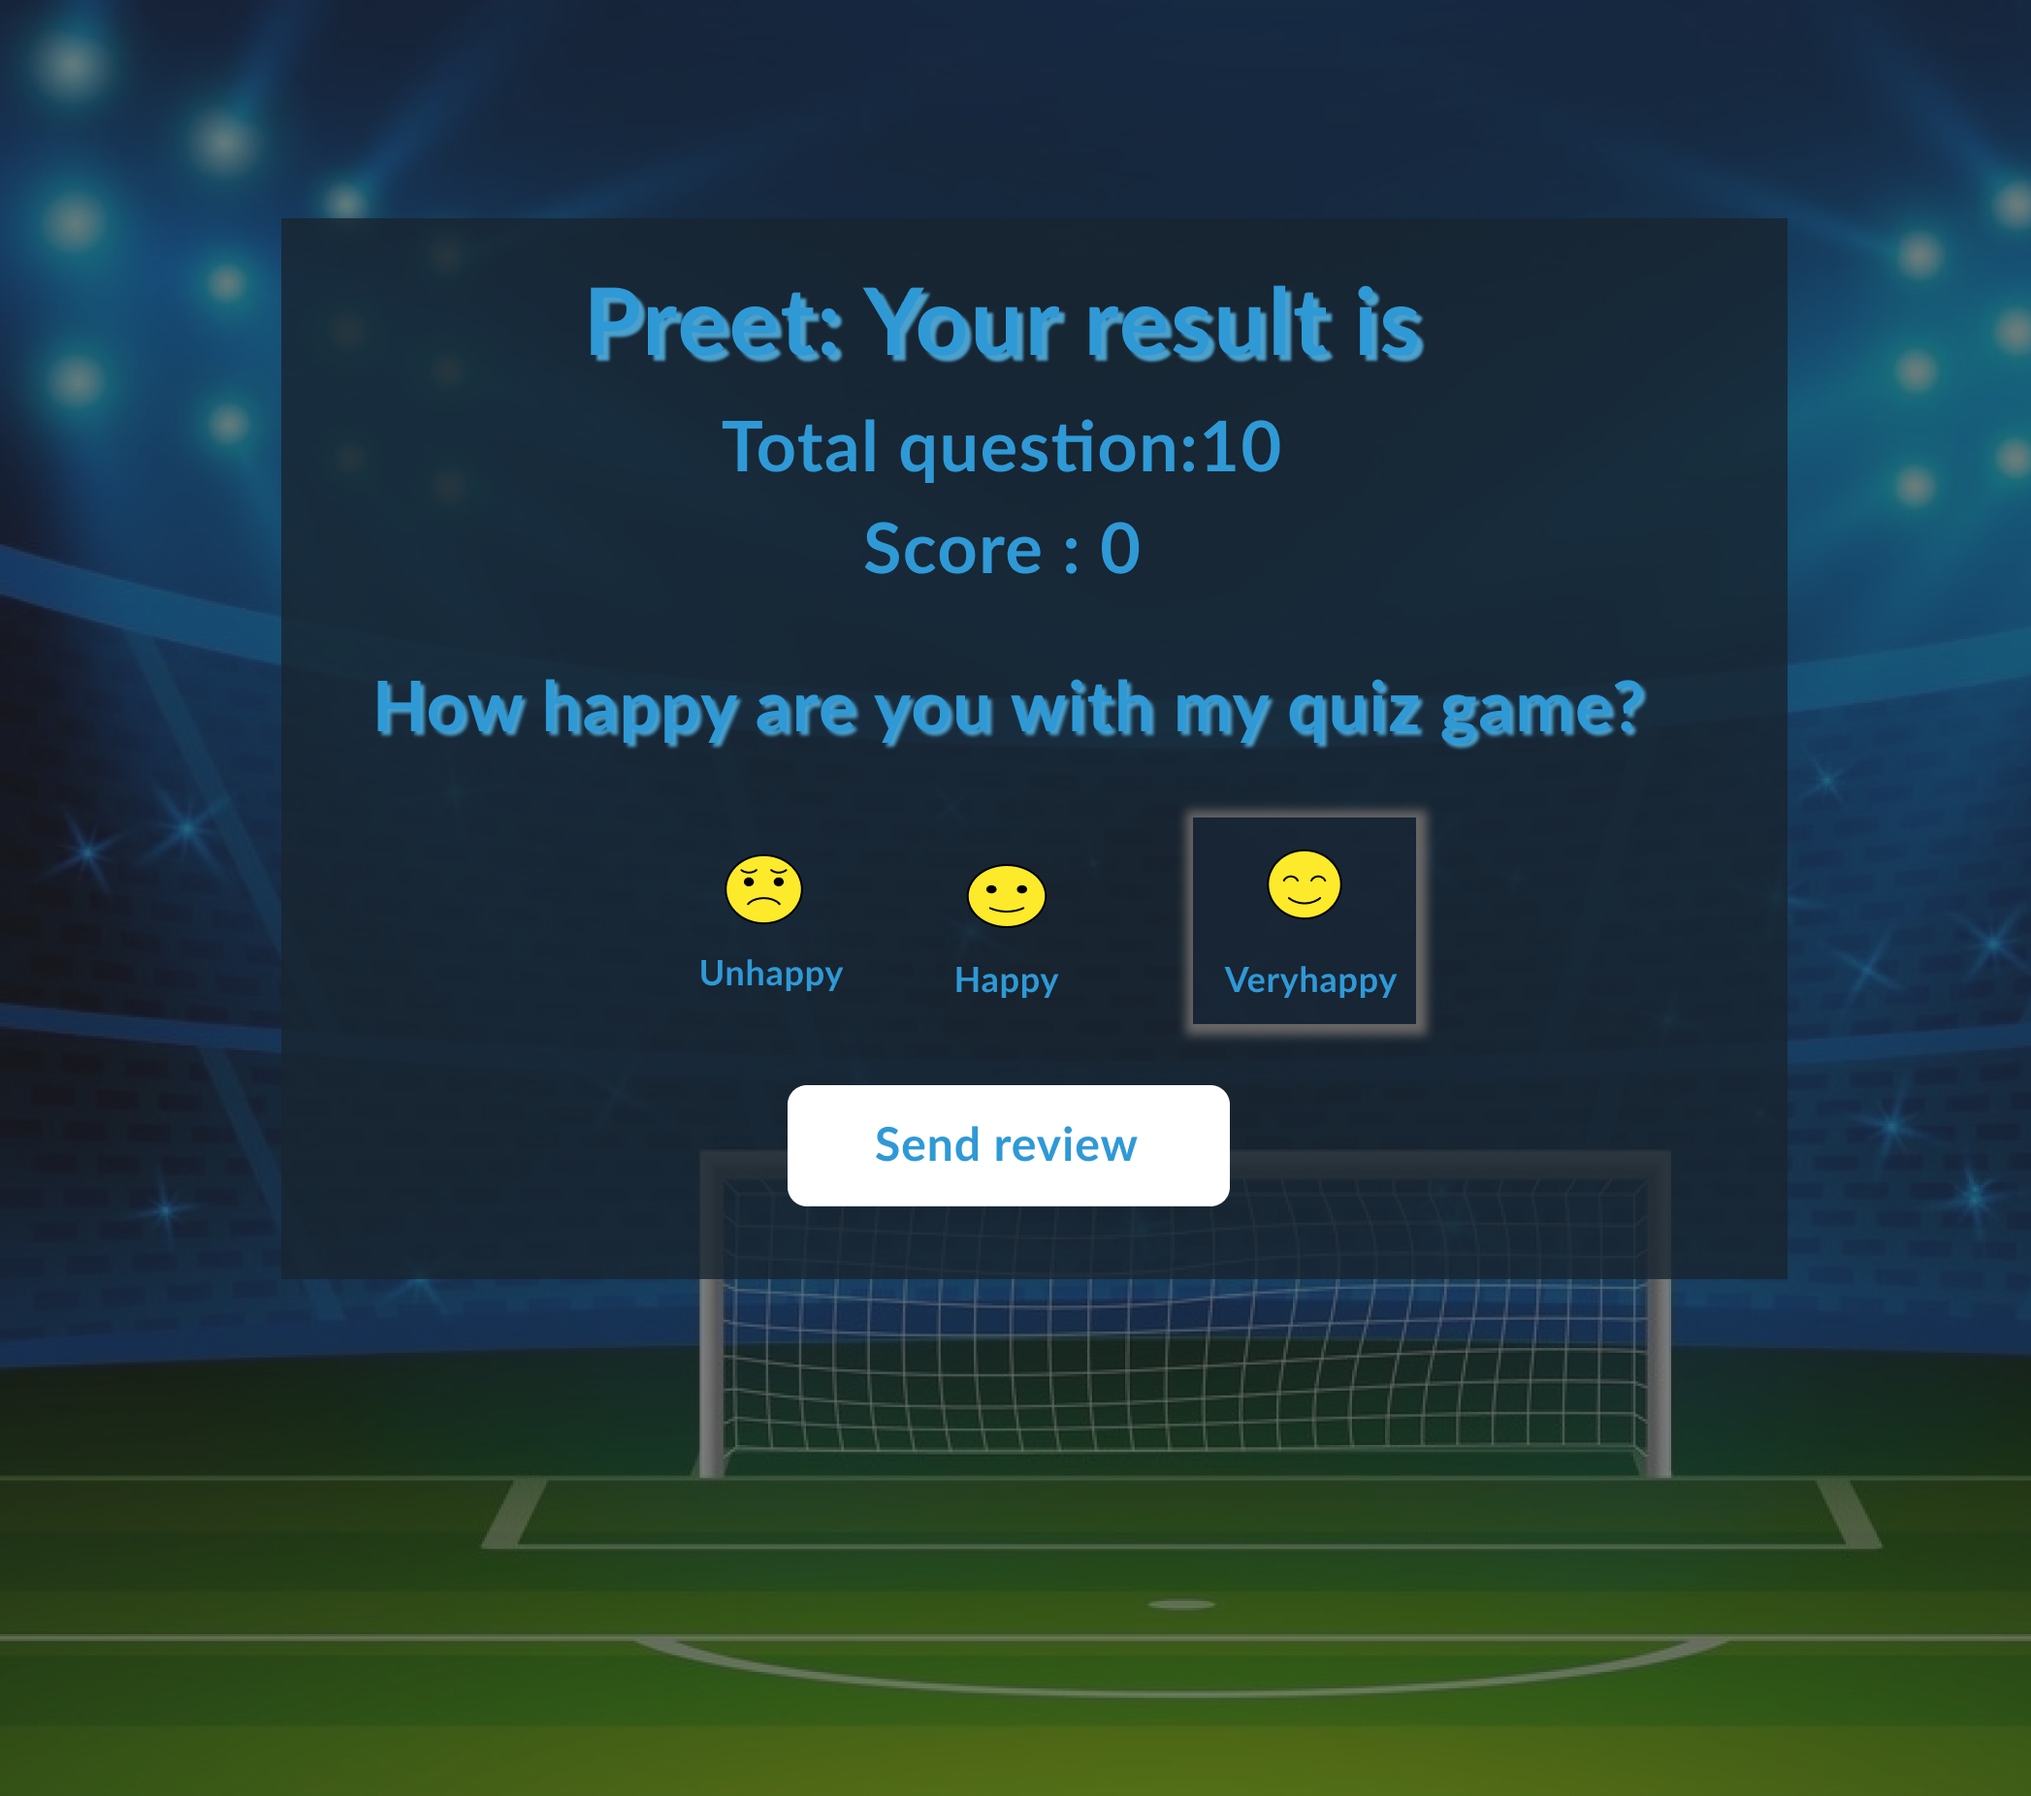
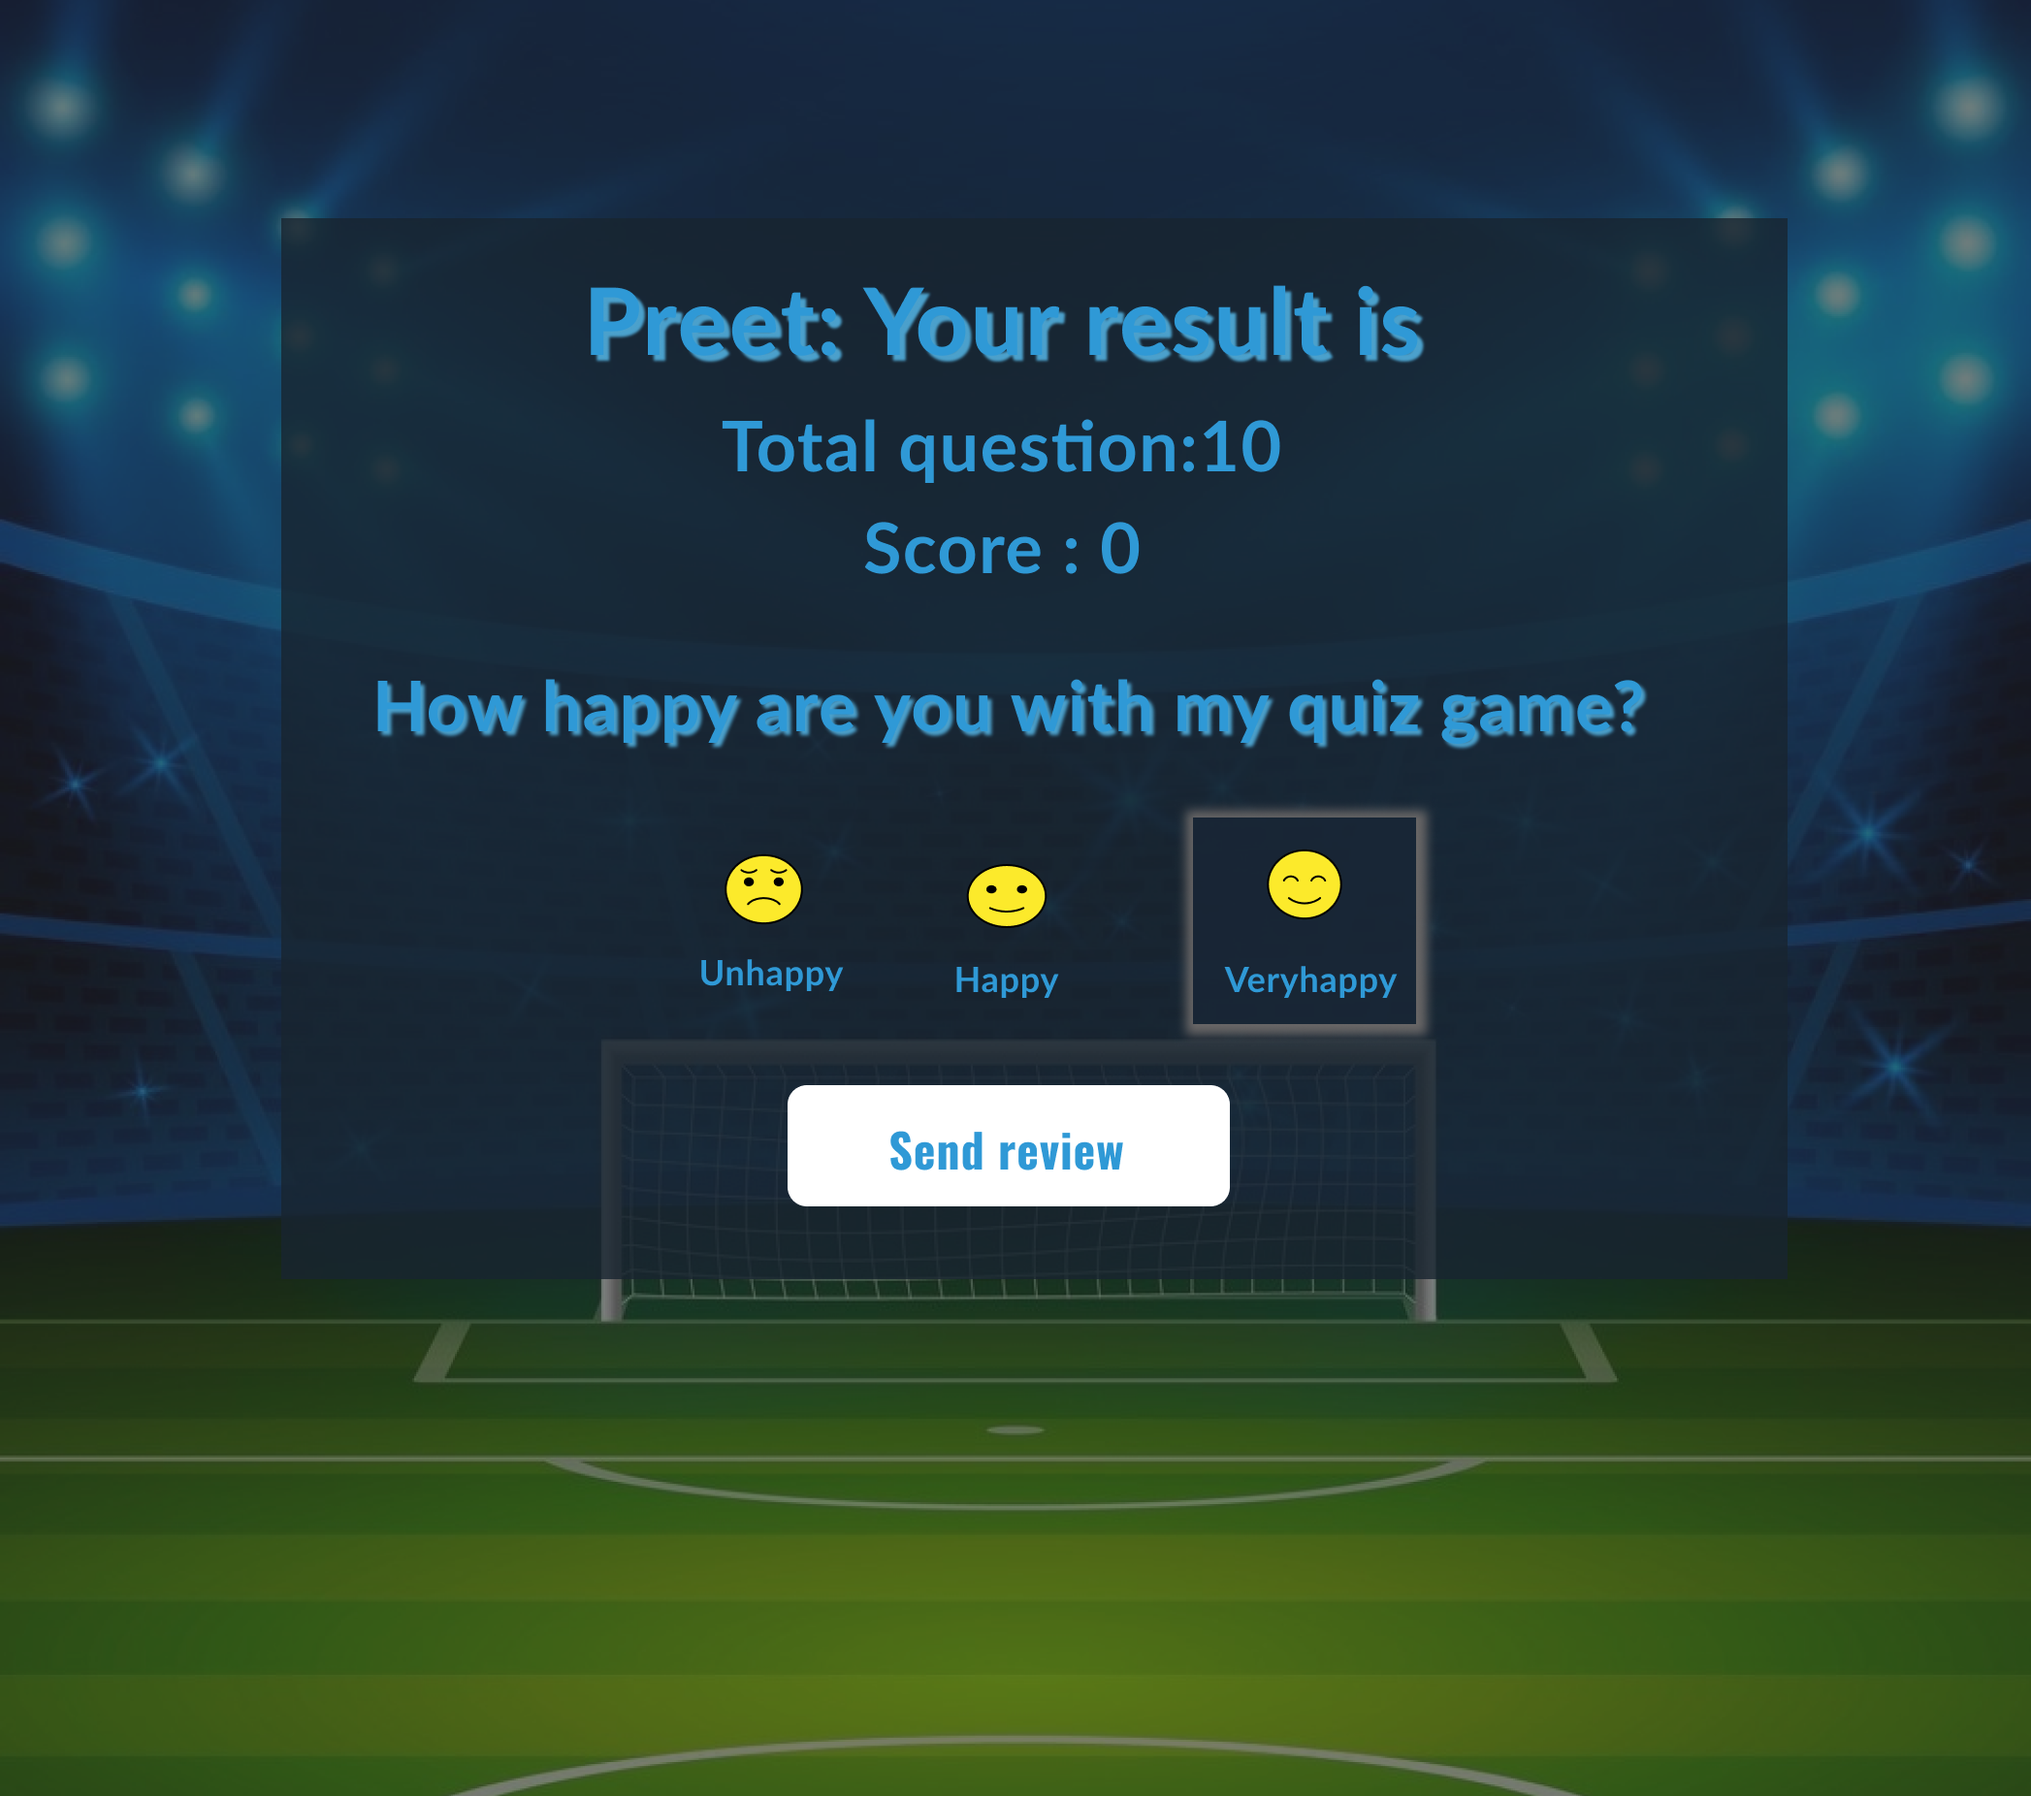
Change wireframe image font and replace with old one in reademe.md file

diff --git a/assets/js/footballquizquestions.js b/assets/js/footballquizquestions.js
@@ -14,12 +14,12 @@ const questions = [
         answer: 1,
     },
     {
-        q: 'Which player has the won the most trophies in football history?',
+        q: 'Which player has won the most trophies in football history?',
         choices: ['Xavi', 'Cristiano Ronaldo ', 'Lionel Messi', 'Dani Alves '],
         answer: 3,
     },
     {
-        q: 'Which football player has scored the most goals in a calendar year?',
+        q: 'Which football player has scored the most goals in a year?',
         choices: ['Luis Suarez', 'Cristiano Ronaldo', 'Lionel Messi', 'Pele'],
         answer: 1,
     },
@@ -29,17 +29,17 @@ const questions = [
         answer: 0,
     },
     {
-        q: 'Who has won the most league titles in premier league history?',
+        q: 'Which player has won the most league titles in premier league history?',
         choices: ['Liverpool', 'Manchester City', 'Manchester United', 'Leicester City'],
         answer: 2,
     },
     {
-        q: 'Which football club has won the most champions league titles?',
+        q: 'Which football club has won most champions league titles?',
         choices: ['Real Madrid', 'Liverpool', 'Chelsea', 'Barcelona'],
         answer: 0,
     },
     {
-        q: "Who has won the most ballon d'ors in football history?",
+        q: "Which player has won the most ballon d'ors in football history?",
         choices: ['Luka Modric', 'Lionel Messi', 'Zinedine Zidane', 'Cristiano Ronaldo '],
         answer: 1,
     },
@@ -49,7 +49,7 @@ const questions = [
         answer: 3,
     },
     {
-        q: 'Who scored the most goals in a single football season ?',
+        q: 'Which player scored the most goals in a single  season ?',
         choices: ['Gerd muller', 'Cristiano Ronaldo ', 'Lionel Messi', 'Arthur ceuleers '],
         answer: 2,
     }

diff --git a/assets/css/style.css b/assets/css/style.css
@@ -93,7 +93,7 @@ header {
 	padding: 30px;
 	border-radius: 10px;
 	letter-spacing: 1px;
-	max-width: 80%;
+	max-width: 90%;
 	align-items: center;
 	margin: 0 auto;
 }
@@ -255,7 +255,7 @@ header {
 	border-radius: 10px;
 	color: #2f99d6;
 	font-size: 17px;
-	font-family: 'Lato', sans-serif;
+	font-family: 'Oswald', sans-serif;
 	font-weight: 600;
 	border-width: 0;
 	cursor: pointer;
@@ -362,6 +362,7 @@ header {
 	border-radius: 10px;
 	letter-spacing: 1px;
 	color: #2f99d6;
+	font-size: 17px;
 }
 
 .model>li {
@@ -438,6 +439,8 @@ li:nth-last-child(7) {
 	cursor: pointer;
 	letter-spacing: 1px;
 	margin-bottom: 20px;
+	font-family: Oswald;
+	font-weight: 600;
 }
 
 #username_submit:hover {
@@ -477,6 +480,7 @@ li:nth-last-child(7) {
 	padding: 30px 0;
 	margin: auto 20px;
 	border-radius: 10px;
+	
 }
 
 .feedback-container {
@@ -520,6 +524,8 @@ li:nth-last-child(7) {
 	padding: 30px;
 	border-radius: 10px;
 	background-color: rgba(21, 20, 24, 0.600);
+	font-family: Oswald;
+	font-weight: 600;
 }
 
 #feedbacks,
@@ -566,8 +572,8 @@ li:nth-last-child(7) {
 		margin: 2rem 30%;
 	}
 	.custom {
-		padding: 14px;
-		margin-bottom: 20px;
+		padding: 10px;
+		
 	}
 	.home-btn {
 		padding-top: 7px;
@@ -590,9 +596,7 @@ li:nth-last-child(7) {
 		left: 20px;
 		right: 20px;
 	}
-	.custom>h3 {
-		font-weight: 300;
-	}
+	
 	.questions-box .question-text {
 		font-size: 20px;
 	}
